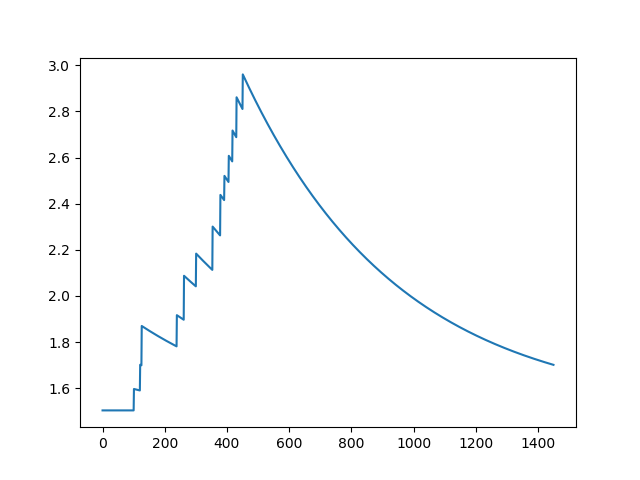
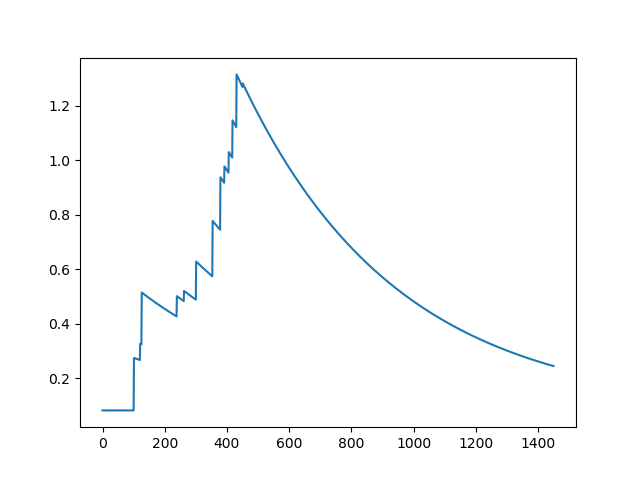
cHawk 4.0

diff --git a/model/cHawk.py b/model/cHawk.py
@@ -49,7 +49,6 @@ class cHawk:
     # @profile
     def intensity(self, t, i, d):
         j = np.searchsorted(self.t[i], t)
-        j = len(self.t[i][self.t[i] < t])
         return self.u[d] @ self.f[i][j - 1] + np.sum(
             self.A[d][self.d[i][:j]] * g(t - self.t[i][:j]))
 
@@ -124,22 +123,20 @@ class cHawk:
             for i in self.patients:
                 disease_d = (self.d[i] == d)
                 if disease_d.any():
-                    tijs = self.t[i][disease_d]
-                    fijs = self.f[i][disease_d]
+                    gradient += sum(
+                        self.f[i][disease_d][k] /
+                        self.intensity(self.t[i][disease_d][k], i, d)
+                        for k in range(np.sum(disease_d)))
 
-                    T = self.t[i][-1]
+                tijs = self.t[i]
+                fijs = self.f[i]
+                T = self.t[i][-1]
 
-                    for k in range(len(tijs)):
-                        tij = tijs[k]
-                        intensity_ij = self.intensity(tij, i, d)
+                gradient -= sum(fijs[j] * (tijs[j + 1] - tijs[j])
+                                for j in range(len(tijs) - 1))
+                # gradient -= fij * (tij - tij_1)
 
-                        tij_1 = tijs[k - 1] if k != 0 else self.t[i][0]
-                        fij = fijs[k]
-
-                        gradient += fij / intensity_ij
-                        gradient -= fij * (tij - tij_1)
-
-                    gradient -= fijs[-1] * (T - tijs[-1])
+                # gradient -= fijs[-1] * (T - tijs[-1])
 
             gradient = -gradient
             gradient += L2 * self.u[d]
@@ -151,7 +148,7 @@ class cHawk:
         self.A[self.A < 0] = val
         self.u[self.u < 0] = val
 
-    def update(self, lr=1e-4):
+    def update(self, lr=1e-5):
         grad_A, grad_u = self.grad()
         self.A -= lr * grad_A
         self.u -= lr * grad_u

diff --git a/model/tempCodeRunnerFile.py b/model/tempCodeRunnerFile.py
@@ -1,0 +1,58 @@
+
+
+        return res
+
+    # @profile
+    def grad(self):
+        grad_A = np.zeros_like(self.A)
+        grad_u = np.zeros_like(self.u)
+
+        # grad_A
+        for d in range(self.D):
+            for dk in range(self.D):
+
+                gradient = 0
+                for i in self.patients:
+                    disease_d = (self.d[i] == d)
+                    if disease_d.any():
+                        tijs = self.t[i][disease_d]
+                        tiks = self.t[i][self.d[i] == dk]
+
+                        T = self.t[i][-1]
+
+                        for tij in tijs:
+                            intensity_ij = self.intensity(tij, i, d)
+                            for tik in tiks:
+                                if tik < tij:
+                                    gradient += g(tij - tik) / intensity_ij
+
+                                gradient -= G(T - tik)  #
+
+                gradient = -gradient
+                gradient += L1 * np.sign(grad_A[d][dk])
+                grad_A[d][dk] = gradient
+
+        # grad_u
+        for d in range(self.D):
+            gradient = 0
+            for i in self.patients:
+                disease_d = (self.d[i] == d)
+                if disease_d.any():
+                    gradient += sum(
+                        self.f[i][disease_d][k] /
+                        self.intensity(self.t[i][disease_d][k], i, d)
+                        for k in range(np.sum(disease_d)))
+
+                tijs = self.t[i]
+                fijs = self.f[i]
+                T = self.t[i][-1]
+
+                gradient -= sum(fijs[j] * (tijs[j + 1] - tijs[j])
+                                for j in range(len(tijs) - 1))
+                # gradient -= fij * (tij - tij_1)
+
+                # gradient -= fijs[-1] * (T - tijs[-1])
+
+            gradient = -gradient
+            gradient += L2 * self.u[d]
+            grad_u = gradient

diff --git a/demo/network_drawing.py b/demo/network_drawing.py
@@ -34,7 +34,7 @@ for i in range(D):
         if A[i][j] > threshold:
             G.add_edge(j, i, weight=A[i][j])
 
-pos = nx.spring_layout(G, k=0.15, iterations=20)
+pos = nx.spring_layout(G, k=0.15, iterations=2)
 # pos = graphviz_layout(G, prog="neato")
 
 edges = G.edges()
